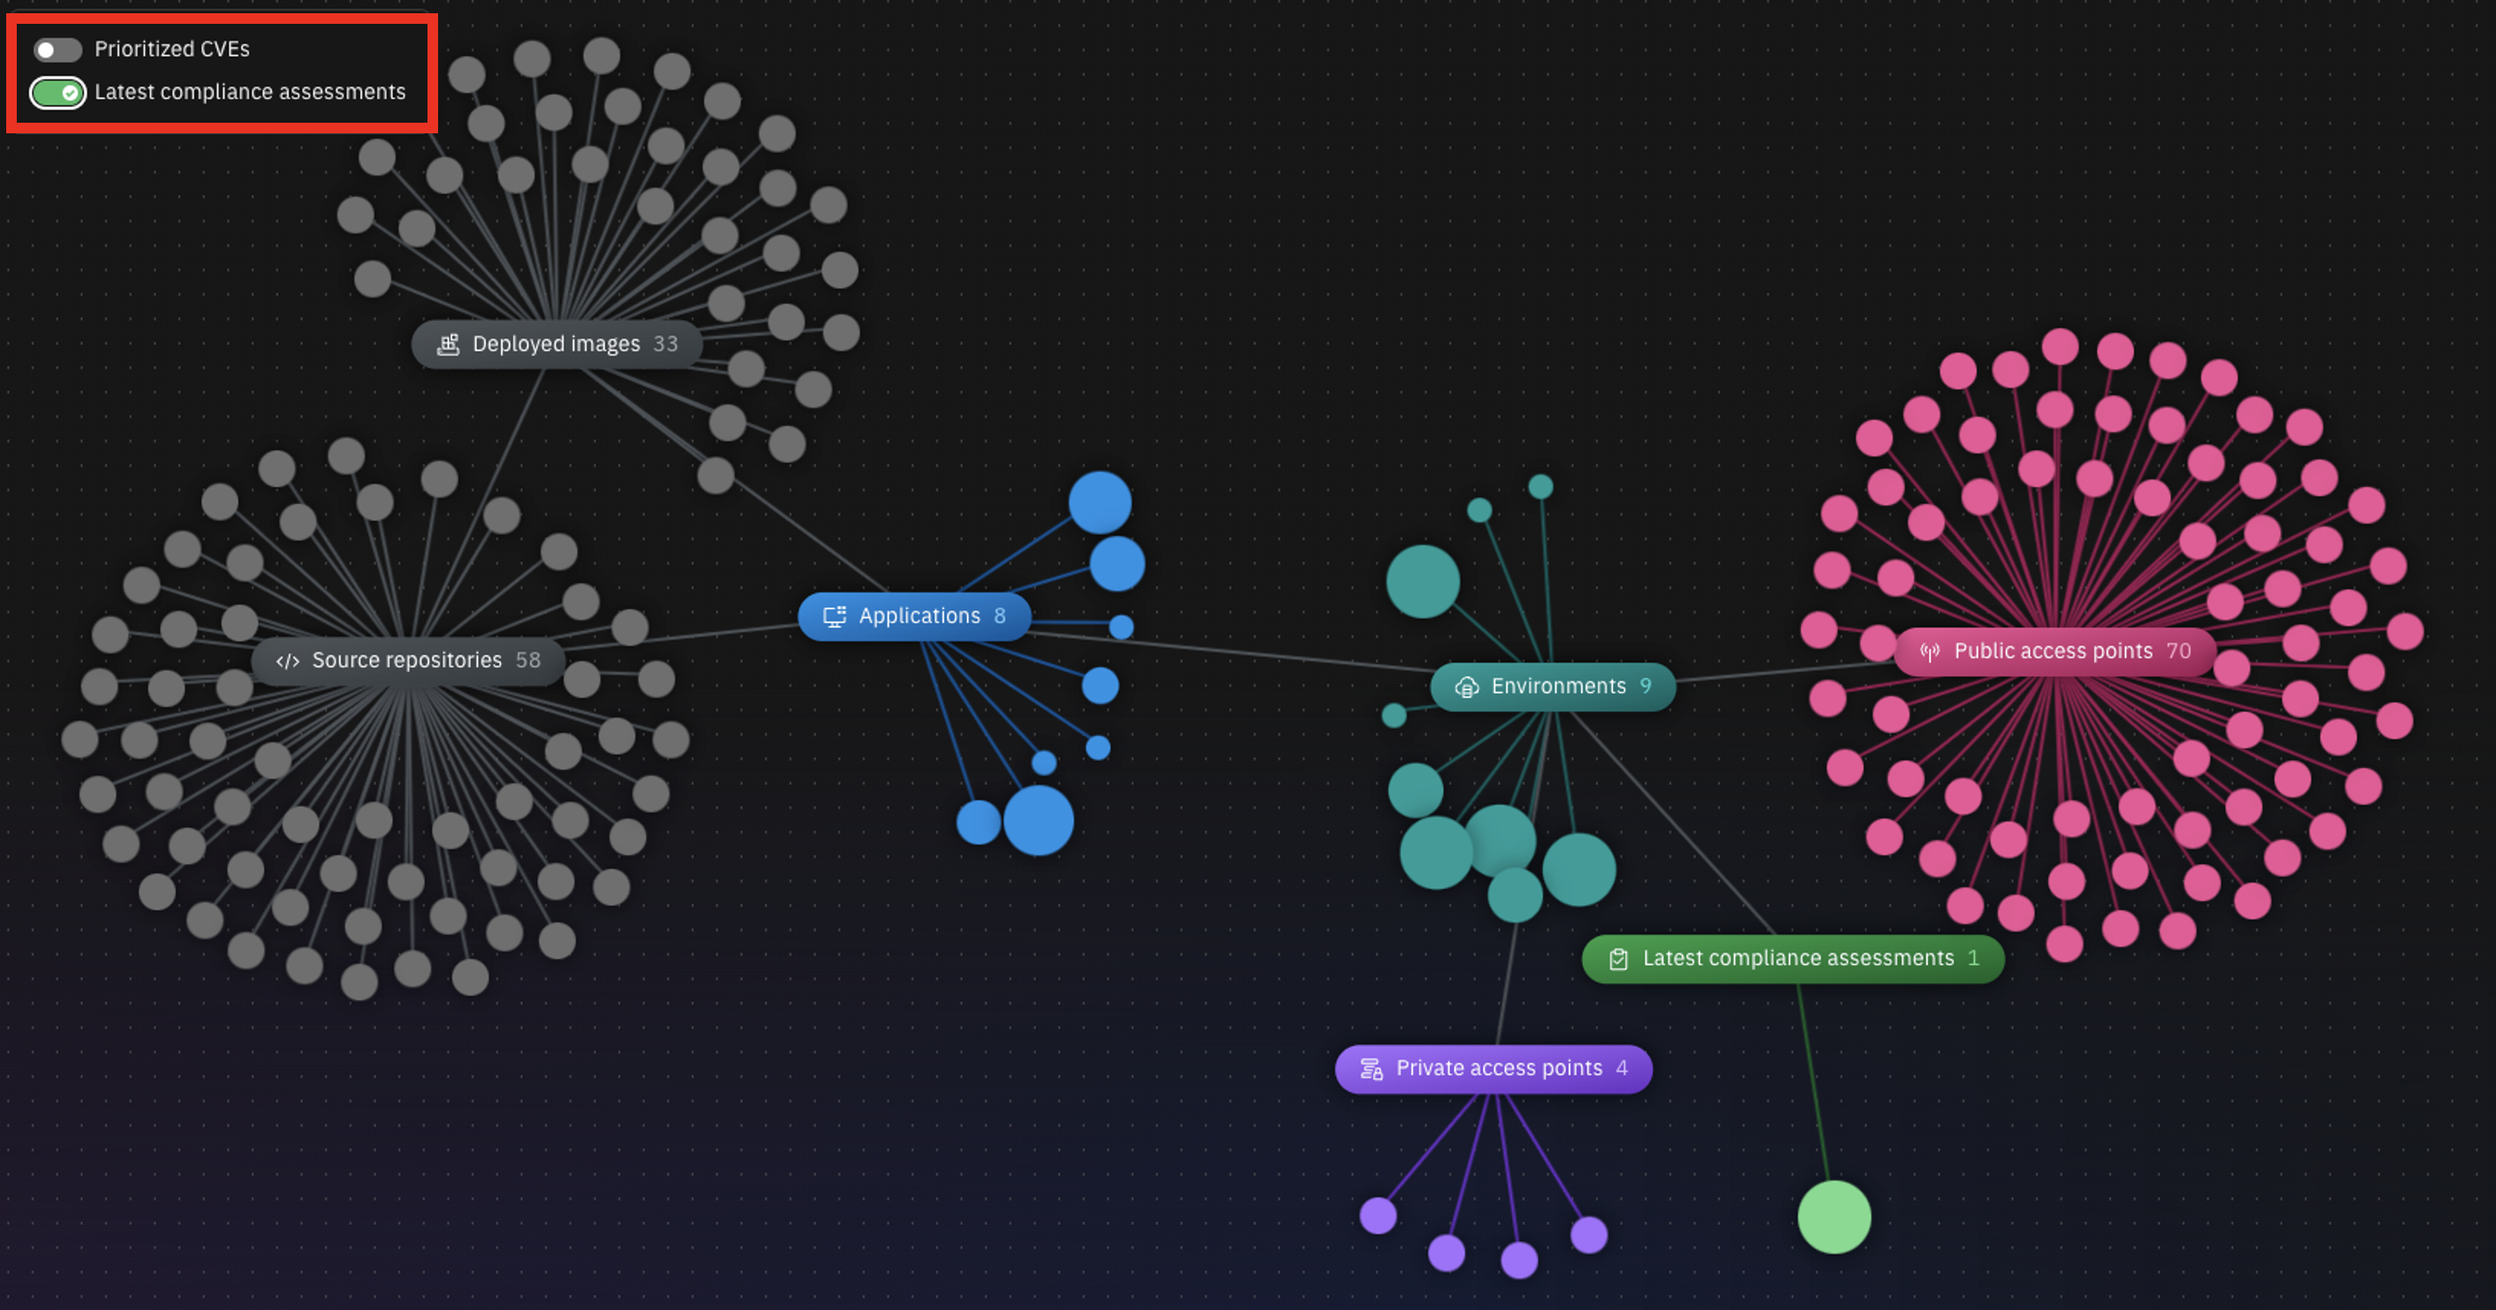
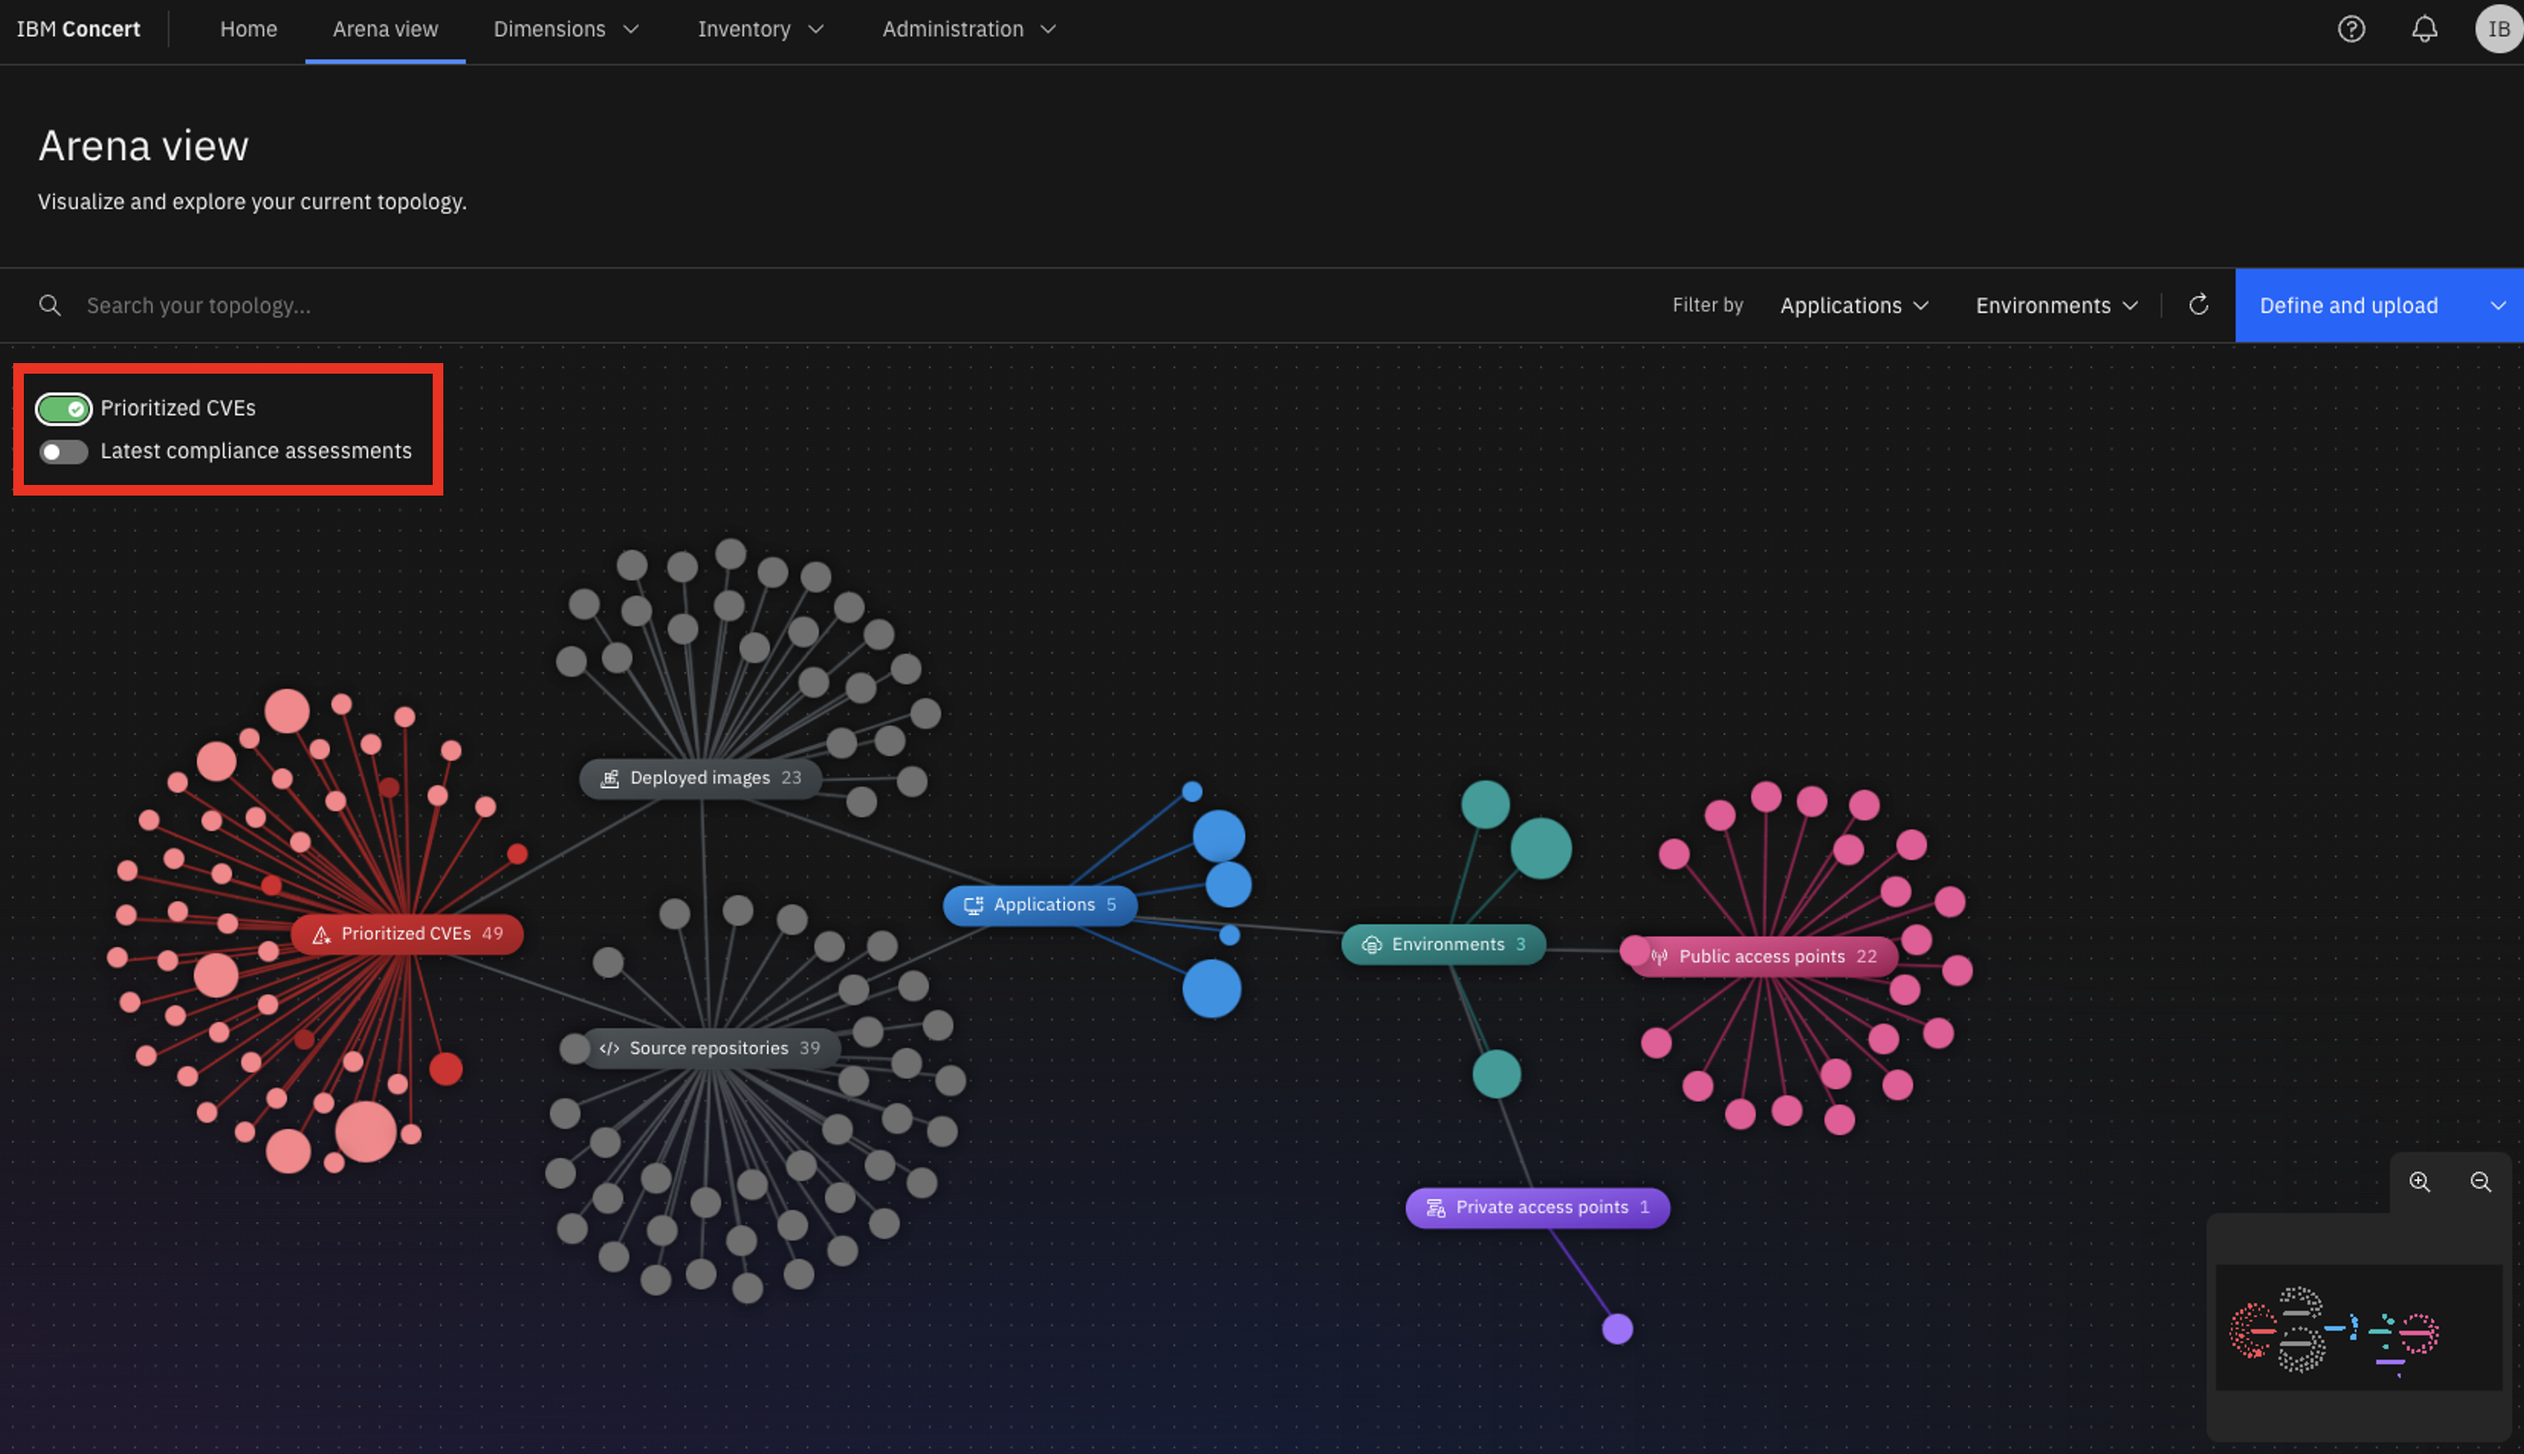
update compliance demo script and screenshots

diff --git a/docs/100-using-gen-ai-to-manage-the-application-portfolio/demo-script.md b/docs/100-using-gen-ai-to-manage-the-application-portfolio/demo-script.md
@@ -105,7 +105,7 @@ Let’s get started.
 
 | **4.1** | **Interact with the chatbot** |
 | :--- | :--- |
-| **Action** &nbsp; 4.1.1 | Click the **Latest compliance assessments** switch to clear the compliance assessments, and then click the **Latest compliance assessments** switch. <br/> <img src="images/4-1-1.png" width="800" /> |
+| **Action** &nbsp; 4.1.1 | Click the **Latest compliance assessments** switch to clear the compliance assessments, and then click the **Prioritized CVEs** switch. <inline-notification text="A red <strong>Prioritized CVEs</strong> section will appear in the diagram."></inline-notification> <img src="images/4-1-1.png" width="800" /> |
 | **Action** &nbsp; 4.1.2 | Click the same CVE you selected previously. <br/> <img src="images/4-1-2.png" width="800" /> |
 | **Action** &nbsp; 4.1.3 | Click **Ask watsonx**. <br/> <img src="images/4-1-3.png" width="800" /> |
 | **Narration** | Concert’s interactive chatbot uses gen AI to dig deeper into Concert’s analysis and engage in intuitive conversations. The operations manager uses natural language to interact with Concert, probing its conclusions, understanding its recommendations and exploring the potential impacts. The chatbot uses IBM’s Granite language model and comes pre-trained to have interactive conversations about application risk. <br/><br/> For example, the operations manager can interactively ask questions about CVE details and engage in a discussion about Concert’s remediation guidance. |
